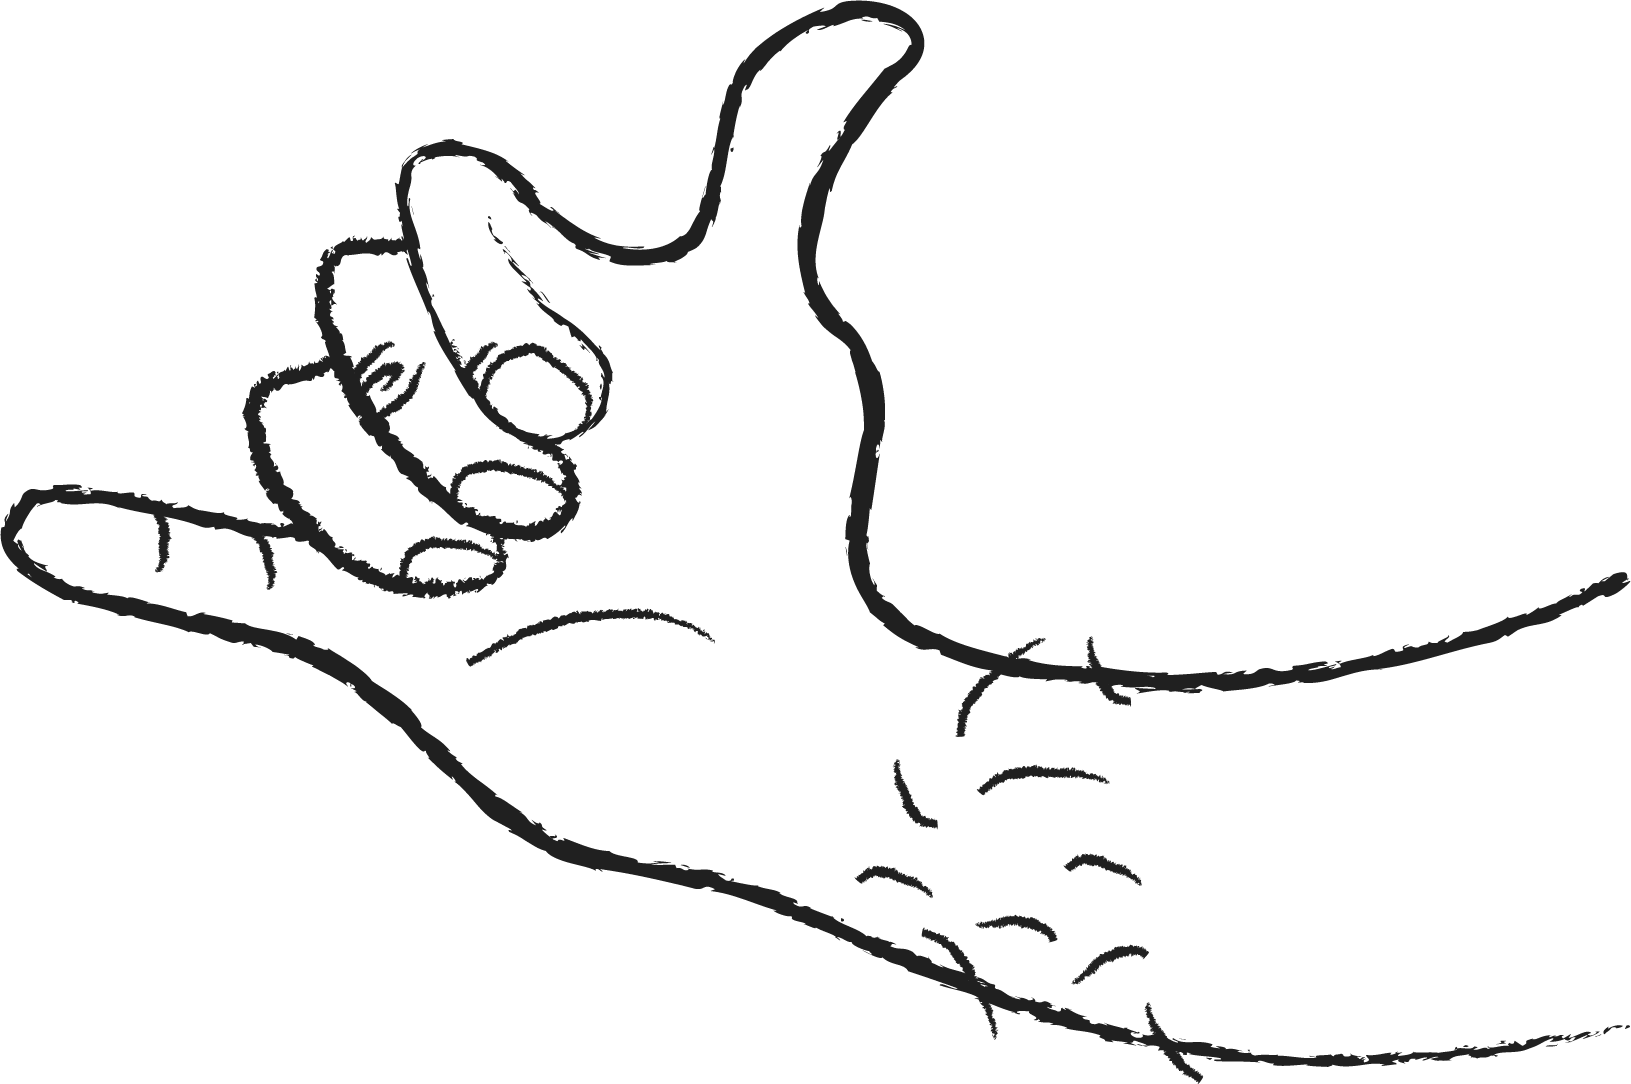
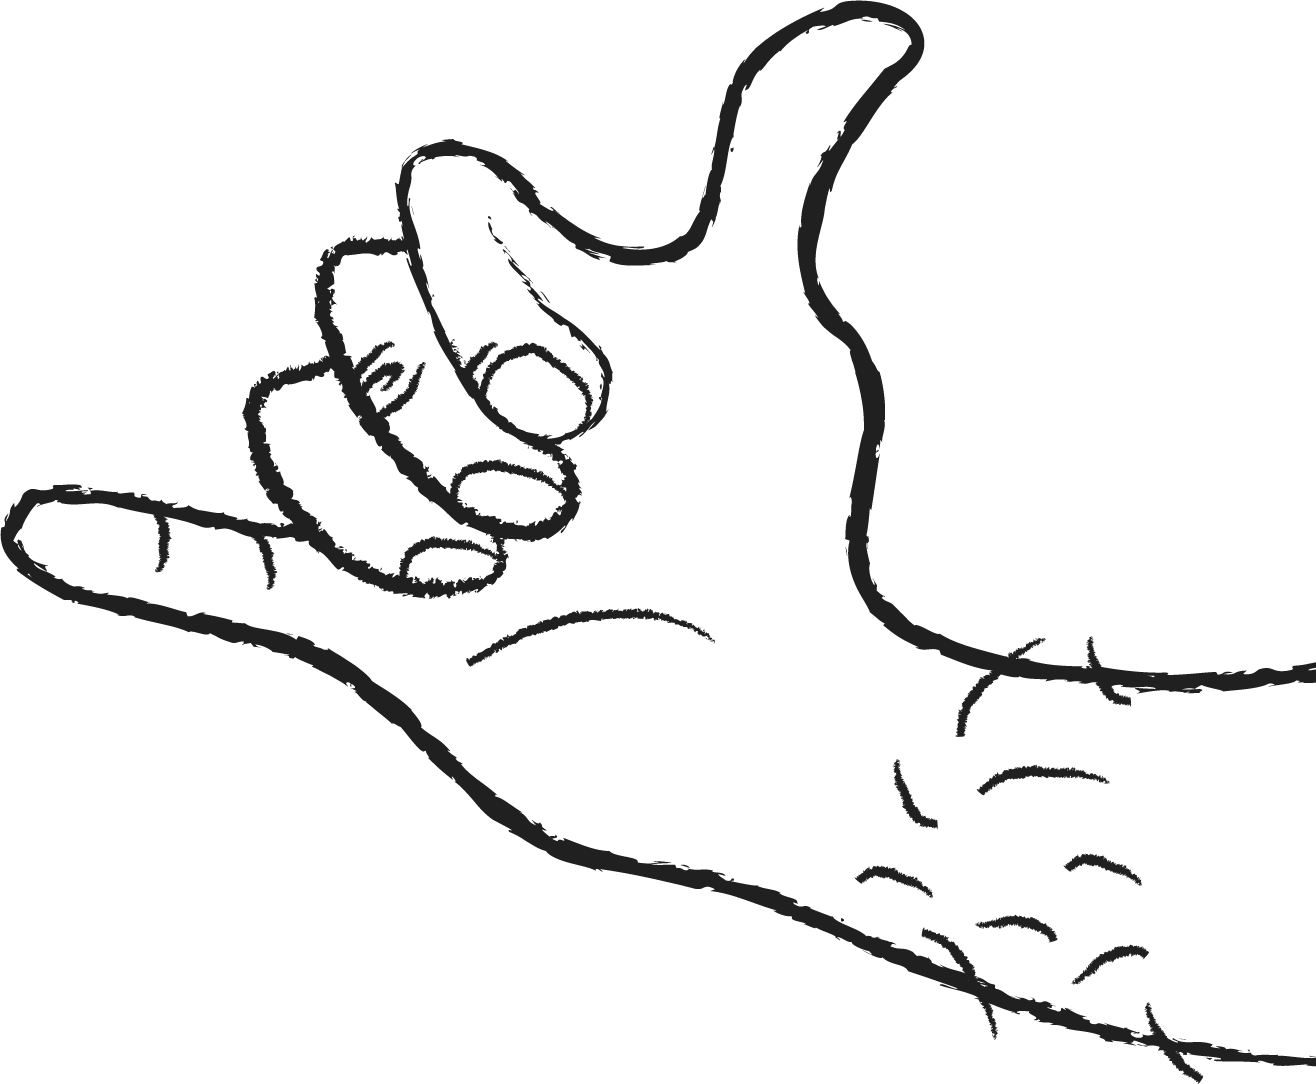
Crop image.

diff --git a/src/sass/home.sass b/src/sass/home.sass
@@ -172,9 +172,9 @@ a
     position: relative
     .introduction-content 
         position: absolute
-        top: 0
+        top: 50%
         left: 50%
-        transform: translate(-50%, 130%)
+        transform: translate(-50%, -50%)
         p 
             text-align: center
             width: 190px

diff --git a/dist/css/home.css b/dist/css/home.css
@@ -202,9 +202,9 @@ a {
 }
 .introduction-section .introduction-content {
   position: absolute;
-  top: 0;
+  top: 50%;
   left: 50%;
-  transform: translate(-50%, 130%);
+  transform: translate(-50%, -50%);
 }
 .introduction-section .introduction-content p {
   text-align: center;

diff --git a/src/html/medical.html b/src/html/medical.html
@@ -112,7 +112,6 @@
                 <img src="../assets/images/yellow_line.png">
             </div>
 
-            <!-- TODO down arrow -->
             <div class="faq-section">
                 <h4>Frequently Asked Questions</h4>
                 <div class="faq-list">
